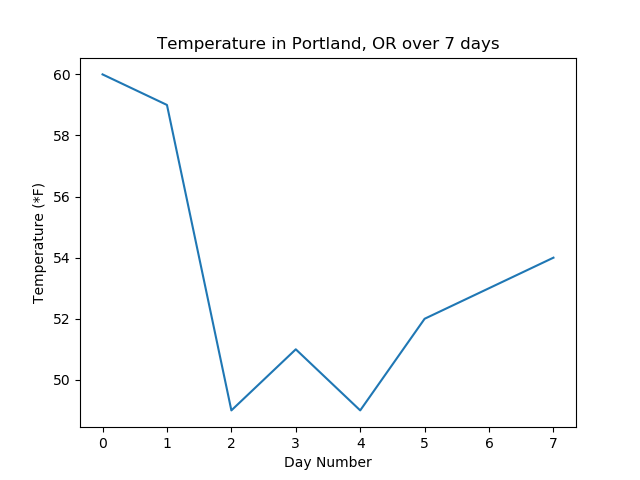
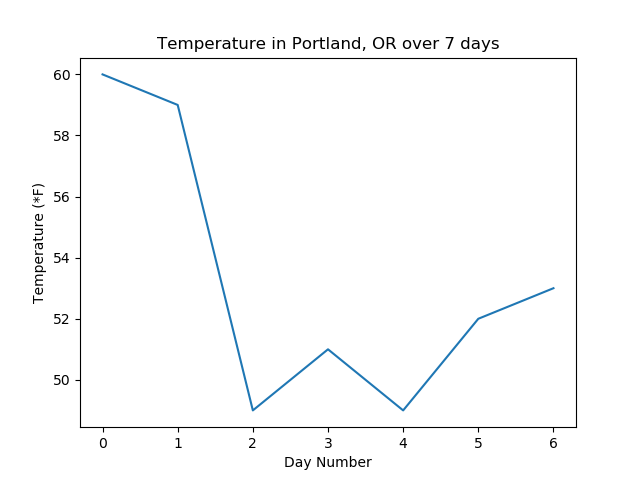
working on real-time plot post

diff --git a/content/posts/matplotlib_animations/live_plotting_with_matplotlib.md b/content/posts/matplotlib_animations/live_plotting_with_matplotlib.md
@@ -13,9 +13,24 @@ Matplotlib can be used to create static 2D plots, but it Matplotlib can also be 
 
 [TOC]
 
+## Pre-requisits
+
+To follow along with this tutorial, a couple pre-requisits need to be in place:
+
+ * Python needs to be installed on your computer. I recommend installing the Anaconda Distribution of Python
+ * You are running a version of Python 3.6 or above. Python version 3.7 or 3.8 are more up to date.
+ * You know how to open the Anaconda Prompt on Windows10 or know how to open a terminal on MacOS or Linux
+ * You have a general idea of what Python packages are and have installed a Python package before using **conda** or **pip**.
+ * You know how to create a text file in an editor or an IDE such as Visual Studio Code, PyCharm, Sublime Text, vim, emacs, etc.
+ * You know how to run a Python program using a terminal prompt, like the Anaconda Prompt or know how to run a Python program from your IDE.
+ * You have general understanding of how files are organized on your computer into directories and sub-directories.
+ * You have some familiarity with navigating through directories and files using a terminal using commands like ```cd```, ```cd ..```, ```dir``` or ```ls```, and ```mdkir```.
+
+Now that those pre-requisites are out of the way, let's start coding! 
+
 ## Set up a Python virtual environment
 
-To start this process, we will set up a virtual environment in Python.
+To start the coding process, we will set up a virtual environment in Python.
 
 Real Python has a good [introduction to virtual environments](https://realpython.com/blog/python/python-virtual-environments-a-primer/) and why to use them.
 
@@ -29,6 +44,8 @@ Using the Anaconda Prompt:
 > conda create -y -n live_plot python=3.7
 ```
 
+![still of piston motion]({static}/posts/matplotlib_animations/images/create_env_conda.PNG) 
+
 Alternatively, on MacOS or Linux, a virtual environment can be set up with a terminal prompt and **pip**.
 
 Using a terminal on MacOS or Linux:
@@ -41,15 +58,16 @@ $ python3 -m venv venv
 
 ## Install Python packages
 
-Now that we have a new clean virtual environment with Python 3 installed, we need to install the necessary packages:
+Now that we have a new clean virtual environment with Python 3 installed, we need to install the necessary packages that we'll use to create our plots.
 
 Using the Anaconda Prompt, activate the ```live_plot``` virtual environment and use **conda** to install the following Python packages. Ensure the virtual environment you created above is activate when the packages are installed.
 
 ```text
 > conda activate live_plot
-(live_plot) > conda install numpy
-(live_plot) > conda install matplotlib
+(live_plot) > conda install -y numpy matplotlib requests
 ```
+
+![still of piston motion]({static}/posts/matplotlib_animations/images/conda_install_numpy_matplotlib.PNG) 
 
 Alternatively, if you are using MacOS or Linux, the packages can be installed with a terminal **pip**:
 
@@ -57,29 +75,34 @@ Alternatively, if you are using MacOS or Linux, the packages can be installed wi
 $ source venv/bin/activate
 (venv) $ pip install numpy
 (venv) $ pip install matplotlib
+(venv) $ pip install requests
 ```
 
 ## Create a static line plot
 
 Before we create a live auto-updating plot, let's first create a static line plot. Our live plots will look a lot like this first static plot. Building a simpler plot first gives us some practice and a structure to build upon when we create the more complex live plots.
 
-Open a text editor (I like to use [VS Code](https://code.visualstudio.com/)) and create a new Python file called ```static_plot.py```
+Open a text editor or IDE (I like to use [VS Code](https://code.visualstudio.com/)) and create a new Python file called ```static_plot.py```
+
+![still of piston motion]({static}/posts/matplotlib_animations/images/create_static_plot_dot_py.PNG) 
 
 ### Import packages
 
-We will start our ```static_plot.py``` script by importing the necessary modules. NumPy is imported as the common alias ```np```. We will also import Matplotlib's ```pyplot``` module using the standar ```plt``` alias
+Let's start our ```static_plot.py``` script by importing the packages we'll use later in the script. NumPy is imported as the common alias ```np```. We will also import Matplotlib's ```pyplot``` module using the standard ```plt``` alias.
 
 ```python
-#import necessary packages
+# static_plot.py
+
+# import necessary packages
 import numpy as np
 import matplotlib.pyplot as plt
 ```
 
-We need some data to plot. For this static plot, we'll plot the temperature in Portland, OR from the last week. We can save the temperature values in a Python list.
+We need some data to plot. For this static plot, we'll plot the temperature in Portland, OR in degree ferenheit over seven day. We'll save the temperature values in a Python list.
 
 ```python
-# create data
-temps = [60, 59, 49, 51, 49, 52,53,54]
+# data
+temps = [60, 59, 49, 51, 49, 52, 53]
 ```
 
 Next, we'll create a figure object ```fig``` and an axis object ```ax``` using Matplotlib's ```plt.subplots()``` method. 
@@ -89,7 +112,7 @@ Next, we'll create a figure object ```fig``` and an axis object ```ax``` using M
 fig, ax = plt.subplots()
 ```
 
-Now we plot the data on the axis object ```ax``` and customize the plot. We'll include a title,  axis labels and a legend.
+Now we can plot the temperature data on the axis object ```ax``` and customize the plot. Let's include plot title, axis labels.
 
 ```python
 # plot the data and customize
@@ -107,25 +130,30 @@ fig.savefig('static_plot.png')
 plt.show()
 ```
 
-Run the ```static_plot.py``` script using the Anaconda Prompt of a terminal. Ensure the virtual environment with Matplotlib installed into is active when the script is run.
+That's it for this first script. Pretty simple right?
 
-```
+Run the ```static_plot.py``` script using the Anaconda Prompt of a terminal. Ensure the virtual environment ```(live_plot)``` is active when the script is run.
+
+```text
 (live_plot)> python static_plot.py
 ```
+![still of piston motion]({static}/posts/matplotlib_animations/images/run_static_plot_dot_py.PNG) 
 
-The plot should look something like below:
+The plot should look something like image below:
 
 ![still of piston motion]({static}/posts/matplotlib_animations/images/static_plot.png) 
 
 The complete script is below:
 
 ```python
-#import necessary packages
+# static_plot.py
+
+# import necessary packages
 import numpy as np
 import matplotlib.pyplot as plt
 
 # data
-temps = [60, 59, 49, 51, 49, 52,53,54]
+temps = [60, 59, 49, 51, 49, 52, 53]
 
 # create the figure and axis objects
 fig, ax = plt.subplots()
@@ -141,9 +169,139 @@ fig.savefig('static_plot.png')
 plt.show()
 ```
 
+Next, we'll build a live plot based on user input.
+
 ## Build a live plot based on user input
 
+Create a new Python file called ```live_plot_user_input.py```
+
+![still of piston motion]({static}/posts/matplotlib_animations/images/create_live_plot_user_input_dot_py.PNG)
+
+In the file ```live_plot_user_input.py```, add the same imports we used in our first plot. Then add an import line to bring in Matplotlib's ```FuncAnimation``` class from the ```matplotlib.animation``` library. We'll use the ```FuncAnimation``` class to build our live auto-updating plot.
+
+```python
+# live_plot_user_input.py
+
+# import necessary packages
+import numpy as np
+import matplotlib.pyplot as plt
+from matplotlib.animation import FuncAnimation
+```
+
+Next we'll pre-populate a list called ```data``` with a couple of data points. This will gives our plot a couple of points to start off with. When our script runs, we'll include functionality to add more points.
+
+```python
+# initial data
+data = [3, 6, 2, 1, 8]
+```
+
+Now we'll build an ```animate()``` function that will read in values from a text file and plot them with Matplotlib. Note the line ```plt.cla()```. This line of code clears the current axis so that the plot can be redrawn. The line ```plt.plot(data[-5:])``` pulls the last 5 data points out of the list ```data``` and plots them.
+
+```python
+# animation function
+def animate(i):
+    with open('data.txt','r') as f:
+        for line in f:
+            data.append(int(line.strip()))
+    plt.cla()
+
+    plt.plot(data[-5:])
+```
+
+The last section of code in the ```live_plot_user_input.py``` script will call the ```FuncAnimation``` class. When we intantiate an instance of this class, we pass in a couple arguments:
+
+ * ```plt.gcf()``` - grabs the current Matplotlib figure. This is the figure we animate
+ * ```animate``` - this is the function we wrote above that pulls lines out of a ```data.txt``` file and plots 5 points at a time.
+ * ```interval=1000``` - this is the time interval in milliseconds (1000 miliseconds = 1 second) for our plot to update.
+
+ ```python
+# call the animation
+ani = FuncAnimation(plt.gcf(), animate, interval=1000)
+
+# show the plot
+plt.tight_layout
+plt.show()
+ ```
+
+Before you run the script, create a new file in the ```live_plot``` directory along side our ```live_plot_user_input.py``` script called ```data.txt```. Inside the file add a couple numbers, each number on it's own line.
+
+```text
+5
+9
+3
+10
+12
+```
+
+Save ```data.txt``` and leave the file open. This is the file that we will add number to and watch our live plot update.
+
+Save ```live_plot_user_input.py``` and run it. You should see a plot pop up. 
+
+![still of piston motion]({static}/posts/matplotlib_animations/images/run_live_plot_user_input_py.PNG)
+
+Now add a number to ```data.txt``` at the bottom of the file on it's own line. Save ```data.txt```. The plot should update with a new data point. I added the number ```16``` to ```data.txt``` and saw the line on the plot go upwards. Add another number at the end of ```data.txt``` (I added ```18``` on the last line). Save ```data.txt``` and watch the plot update.
+
+![still of piston motion]({static}/posts/matplotlib_animations/images/user_input_live_plot.PNG)
+
+Great! We built a live updating plot based on user input. Next, let's build a live auto-updating plot using data pulled from the web.
+
 ## Build a live plot using data from the web
+
+The third plot we are going to build is a plot that pulls data from the web.
+
+```python
+# plot_thingspeak_realtime.py
+
+"""
+A Python script that plots live data from Thingspeak.com using Matplotlib
+inspiration from:
+https://learn.sparkfun.com/tutorials/graph-sensor-data-with-python-and-matplotlib/update-a-graph-in-real-time
+"""
+import time
+import datetime as dt
+import requests
+import matplotlib.pyplot as plt
+import matplotlib.animation as animation
+
+url = "https://api.thingspeak.com/channels/9/fields/1.json?results=1"
+
+# function to pull out a float from the requests response object
+def pull_float(response, field_num='1'):
+    jsonr = response.json()
+    field_str = 'field'+field_num
+    strr = jsonr['feeds'][0][field_str]
+    fltr = round(float(strr),2)
+    return fltr
+
+# Create figure for plotting
+fig, ax = plt.subplots()
+xs = []
+ys = []
+
+def animate(i, xs:list, ys:list):
+    # grab the data from thingspeak.com
+    response = requests.get(url)
+    flt = pull_float(response,'1')
+    # Add x and y to lists
+    xs.append(dt.datetime.now().strftime('%H:%M:%S'))
+    ys.append(flt)
+    # Limit x and y lists to 10 items
+    xs = xs[-10:]
+    ys = ys[-10:]
+    # Draw x and y lists
+    ax.clear()
+    ax.plot(xs, ys)
+    # Format plot
+    ax.set_ylim([175,225])
+    plt.xticks(rotation=45, ha='right')
+    plt.subplots_adjust(bottom=0.30)
+    plt.title('Light from ThingSpeak Channel 9')
+    plt.ylabel('Light Reading')
+
+# Set up plot to call animate() function every 1000 milliseconds
+ani = animation.FuncAnimation(fig, animate, fargs=(xs,ys), interval=1000)
+plt.show()
+```
 
 ## Build a live plot using data from a sensor
 

diff --git a/content/posts/pelican/putting_nojekyll_in_pelican.md b/content/posts/pelican/putting_nojekyll_in_pelican.md
@@ -7,7 +7,7 @@ Tags: python, pelican, blog, github
 Slug: add-nojekyll-file-to-pelican
 Authors: Peter D. Kazarinoff
 
-This blog is build with Python and a package called Pelican. Pelican is a Python package used to create blogs.  This blog is deployed on GitHub pages. When Pelican runs, it produces .html files that make up the blog in an output directory. The output directory is saved to a gh-pages branch of the main GitHub repo. When the gh-pages branch is updated with new content (a new blog post), the blog webpages are re-deployed.
+This blog is built with Python and a package called Pelican. Pelican is a Python package used to create static websites (websites without databases) and in particular blogs.  This blog is built with Pelican and deployed on GitHub pages. When Pelican builds the site, it produces .html files that make up the blog in an output directory. The output directory is saved to a gh-pages branch of the main GitHub repo. When the gh-pages branch is updated with new content (a new blog post), the blog webpages are re-deployed and readers can see a new post.
 
 ## The Problem
 
